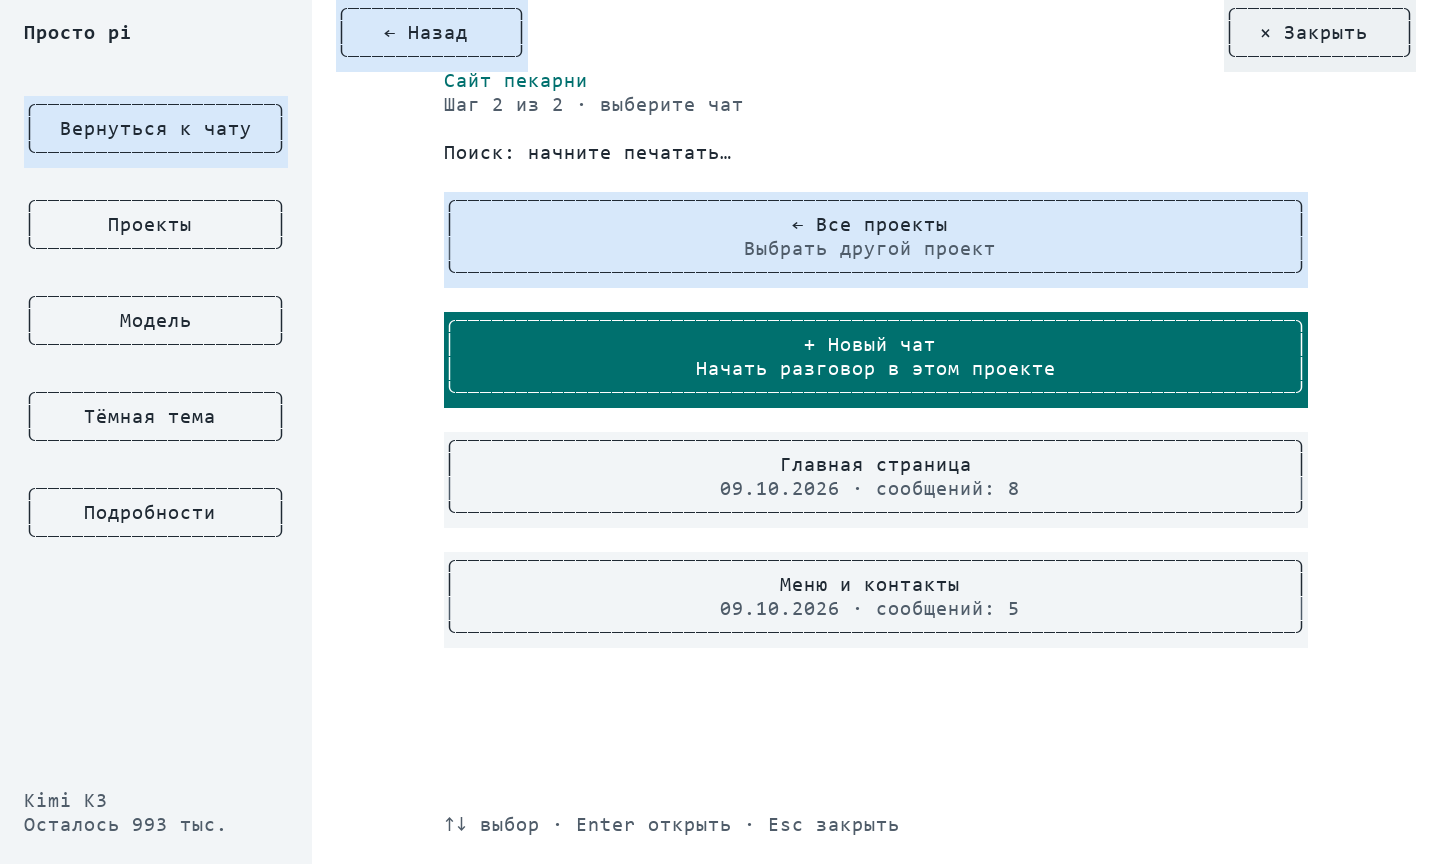
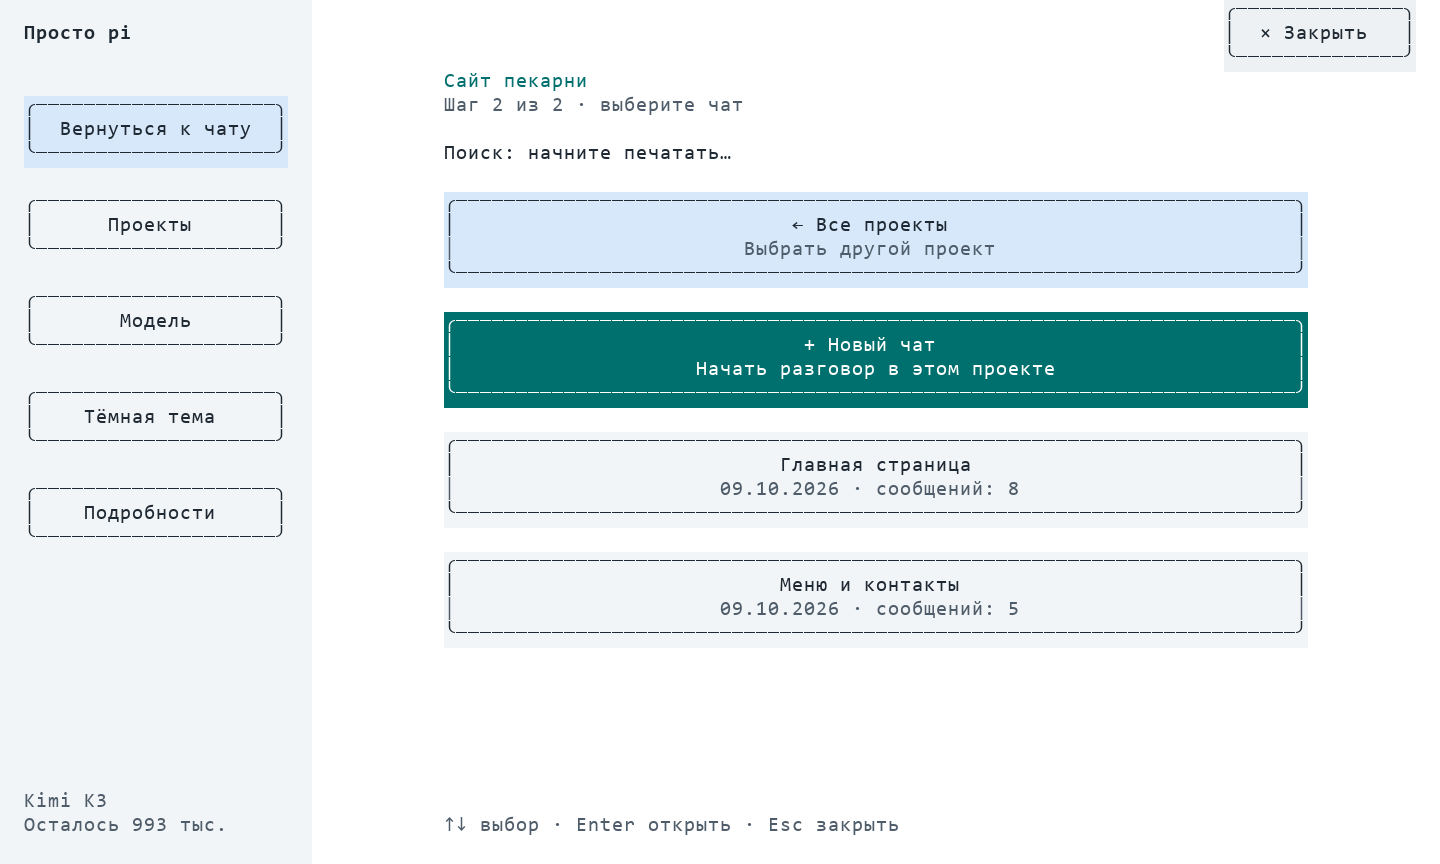
Remove top-left back button while preserving return to chat

Changed region(s): [[0.2188, 0.0, 0.375, 0.0938]]

diff --git a/README.md b/README.md
@@ -93,4 +93,4 @@ MIT.
 
 Данные этих превью демонстрационные. Генерация: node design/preview.mjs /path/to/pi-package, затем python design/render_preview.py (Pillow, Windows fonts).
 
-В открытых окнах сверху слева есть «Назад», справа — «Закрыть». Кнопка «Новый разговор» в боковой панели меняется на синюю «Вернуться к чату». «Назад» в списке чатов возвращает к проектам; в форме проекта — к предыдущему окну.
+В открытых окнах справа сверху есть «Закрыть». Кнопка «Новый разговор» в боковой панели меняется на синюю «Вернуться к чату».
